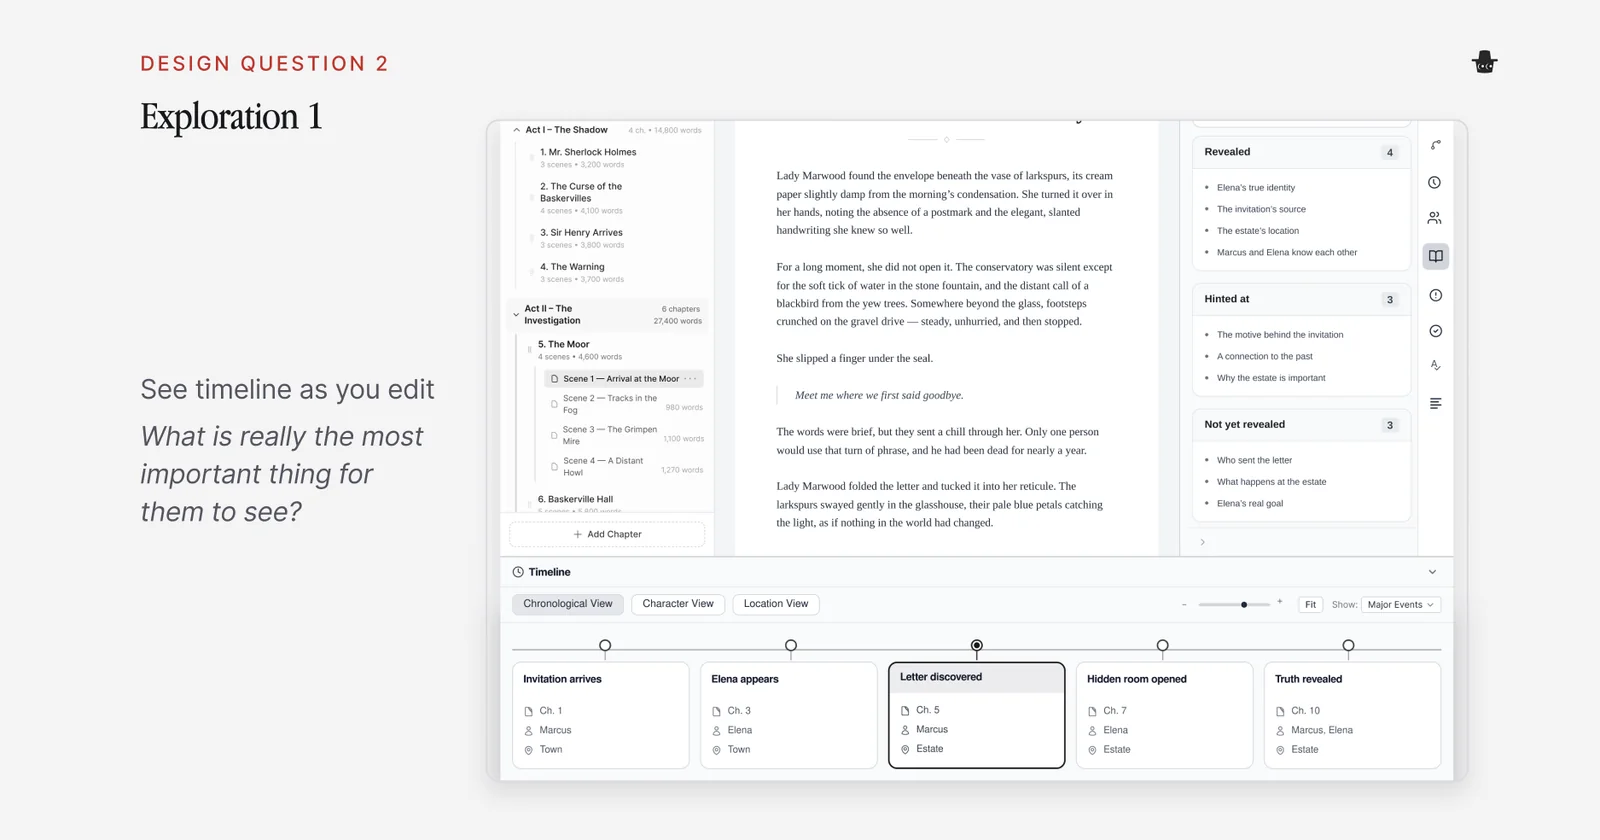
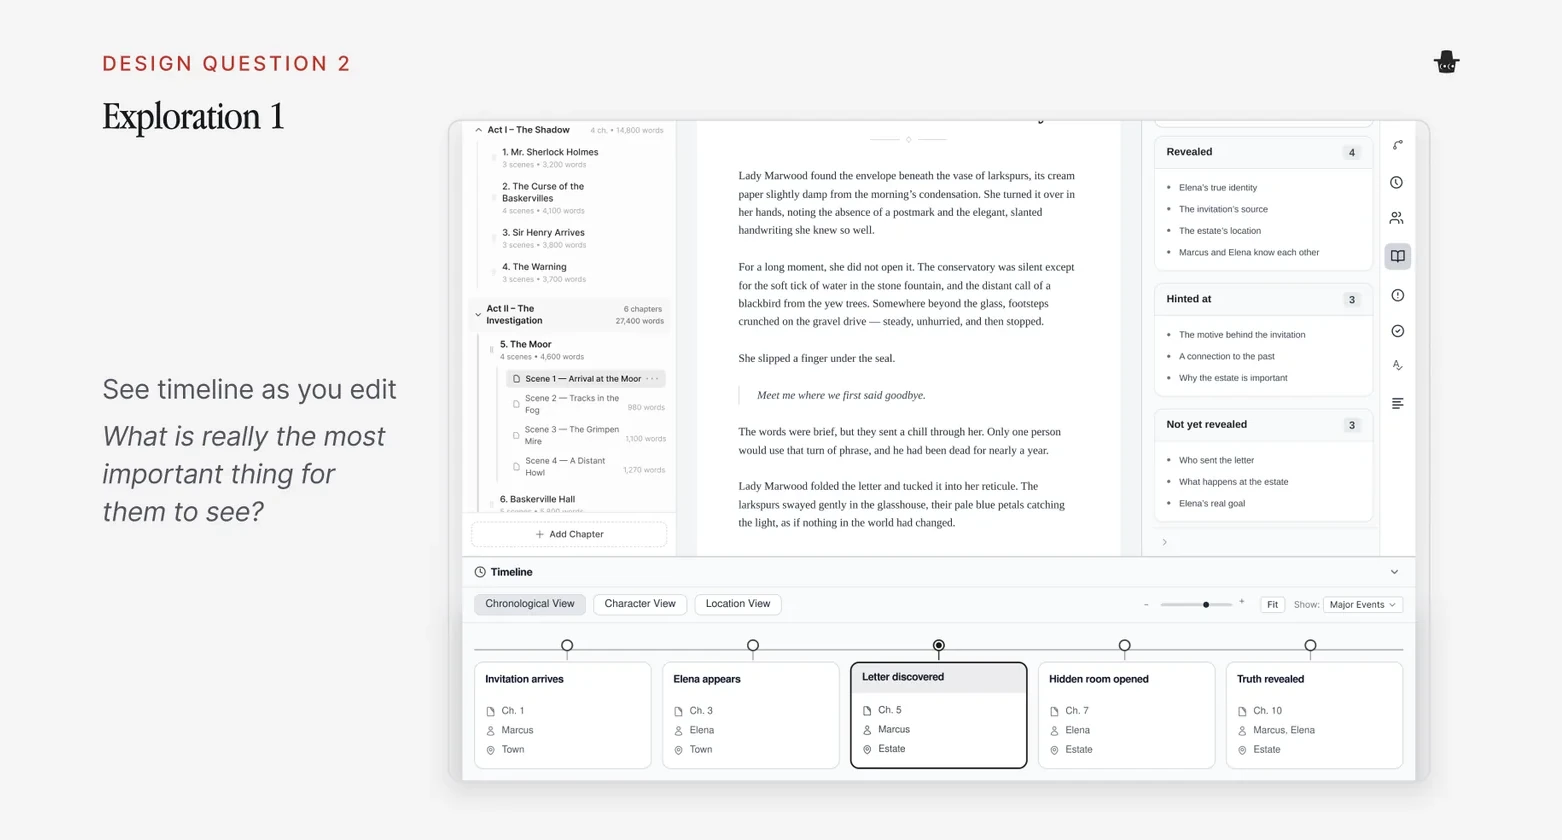
Crop Clueline slides to equal side margins and cap two graphics at 720px
Trims the left of the two-stories graphic and the four exploration slides to match the space right of the logo, crops the string states image to its content, and gives the two-stories and core-insight graphics the diagram width cap.

diff --git a/case-studies/clueline/index.html b/case-studies/clueline/index.html
@@ -168,8 +168,8 @@
       <div class="cs-prose">
         <p>A mystery is two stories at once. One is what actually happened in the fictional world, including who committed the crime, how and why. The other is how those events unfold for the reader, including what they discover, what they suspect and when they learn the truth.</p>
         <p>The challenge is keeping both consistent as a change to one can unintentionally unravel the other.</p>
-        <figure class="cs-media" style="--ratio:1600/840">
-          <img src="assets/images/two-stories.webp" width="1600" height="840" alt="Two red strings: the fictional world, who committed the crime, how and why, and the order of the storytelling, what the reader discovers, suspects and learns. The strings meet and are broken in the middle." loading="lazy">
+        <figure class="cs-media cs-media--diagram" style="--ratio:1556/737">
+          <img src="assets/images/two-stories.webp" width="1556" height="737" alt="Two red strings: the fictional world, who committed the crime, how and why, and the order of the storytelling, what the reader discovers, suspects and learns. The strings meet and are broken in the middle." loading="lazy">
           <figcaption class="cs-caption">The two stories of a mystery</figcaption>
         </figure>
         <p>Writers and readers describe the same failures from opposite sides.</p>
@@ -214,7 +214,7 @@
       <div class="sec-head"><h2 class="sec-label">The <span class="aw">Concept</span></h2></div>
       <div class="cs-prose">
         <p>Clueline is built on one idea. A system can check what the text says, but it can only guess what a reader will infer, so Clueline checks order, timing and who knows what, and leaves the question of whether the mystery works to the writer.</p>
-        <figure class="cs-media" style="--ratio:860/500">
+        <figure class="cs-media cs-media--diagram" style="--ratio:860/500">
           <img src="assets/images/core-insight.webp" width="860" height="500" alt="Two panels. One, what the text says: a magnifying glass over a page with a red string joining two highlighted lines, captioned Does my story make sense? A system can check what the text says. Two, what the reader infers: a figure thinking of three question-marked notes, captioned Does my mystery work? A system can only guess what a reader will infer." loading="lazy">
           <figcaption class="cs-caption">What a system can check, and what it can only guess</figcaption>
         </figure>
@@ -260,8 +260,8 @@
         <h3 class="cs-subhead" id="flow">01. Writing Flow</h3>
         <p><strong>How might we let writers investigate their story without interrupting their creative flow?</strong></p>
         <p>Our first exploration put warnings inside the draft as the writer typed. The insight was that while a story is still changing, warnings appear too early and interrupt, so in the next exploration the writer decides when to create and when to step back and review.</p>
-        <figure class="cs-media" style="--ratio:1600/840">
-          <img src="assets/images/dq1-exploration-1.webp" width="1600" height="840" alt="Slide for the first exploration: the manuscript with a highlighted clue and a small warning marker inside the text, and the insight that if the story is still changing, warnings might appear too early and interrupt the writer’s flow" loading="lazy">
+        <figure class="cs-media" style="--ratio:1566/840">
+          <img src="assets/images/dq1-exploration-1.webp" width="1566" height="840" alt="Slide for the first exploration: the manuscript with a highlighted clue and a small warning marker inside the text, and the insight that if the story is still changing, warnings might appear too early and interrupt the writer’s flow" loading="lazy">
           <figcaption class="cs-caption">First exploration, warnings inside the draft</figcaption>
         </figure>
         <p>Clueline stays quiet while the writer drafts. Marking a passage takes one click from the toolbar, a check runs when the writer asks, and the bar at the bottom shows how many things are left to check.</p>
@@ -273,12 +273,12 @@
         <h3 class="cs-subhead" id="connections">02. Story Connections</h3>
         <p><strong>How might we make the relationships between clues, characters and events easy to understand?</strong></p>
         <p>We tried three versions. The first put a timeline beneath the editor, and the open question was what a writer most needs to see at that moment. The second organized the timeline by character, which showed more but still left the pieces unconnected. The third was the Story map, where every clue, event, character and reveal is connected.</p>
-        <figure class="cs-media" style="--ratio:1600/840">
-          <img src="assets/images/dq2-exploration-1.webp" width="1600" height="840" alt="Slide for the first exploration: the manuscript with a chapter list, a reader panel and a timeline of events along the bottom, captioned See timeline as you edit" loading="lazy">
+        <figure class="cs-media" style="--ratio:1562/840">
+          <img src="assets/images/dq2-exploration-1.webp" width="1562" height="840" alt="Slide for the first exploration: the manuscript with a chapter list, a reader panel and a timeline of events along the bottom, captioned See timeline as you edit" loading="lazy">
           <figcaption class="cs-caption">First exploration, a timeline while editing</figcaption>
         </figure>
-        <figure class="cs-media" style="--ratio:1600/840">
-          <img src="assets/images/dq2-exploration-2.webp" width="1600" height="840" alt="Slide for the second exploration: an event map organized by character, captioned A timeline organized by character, more information, still not very connected" loading="lazy">
+        <figure class="cs-media" style="--ratio:1558/840">
+          <img src="assets/images/dq2-exploration-2.webp" width="1558" height="840" alt="Slide for the second exploration: an event map organized by character, captioned A timeline organized by character, more information, still not very connected" loading="lazy">
           <figcaption class="cs-caption">Second exploration, a timeline by character</figcaption>
         </figure>
         <p>The map puts both stories on one screen. The top row is the book, chapter by chapter, with marks as colored dots, and the bottom row is what really happened in time order, with strings running between them. A red dashed string means a clue comes after its reveal. Selecting an event shows when, where and who, explains what’s wrong in plain words and shows what a fix would change, such as moving the time to 10:00 pm so Sarah can make it.</p>
@@ -290,8 +290,8 @@
         <h3 class="cs-subhead" id="reader">03. Reader Perspective</h3>
         <p><strong>Can writers see their story through the reader’s eyes?</strong></p>
         <p>We first explored charts of which suspects readers might suspect at different points in the story, and moved away from them because a chart of suspicion is a guess.</p>
-        <figure class="cs-media" style="--ratio:1600/840">
-          <img src="assets/images/dq3-exploration-1.webp" width="1600" height="840" alt="Slide for the first exploration: a chart of who readers suspect, chapter by chapter, with a list of what readers are wondering" loading="lazy">
+        <figure class="cs-media" style="--ratio:1554/840">
+          <img src="assets/images/dq3-exploration-1.webp" width="1554" height="840" alt="Slide for the first exploration: a chart of who readers suspect, chapter by chapter, with a list of what readers are wondering" loading="lazy">
           <figcaption class="cs-caption">First exploration, who readers suspect</figcaption>
         </figure>
         <p>The second exploration goes chapter by chapter and lists what the reader has been told so far, flags what’s new in that chapter and shows how many secrets are still hidden. Writers see what the page shows and decide what the reader will make of it.</p>
@@ -315,8 +315,8 @@
           <figcaption class="cs-caption">Foundations</figcaption>
         </figure>
         <p>Kelly carried the detective theme into the visual identity through the string connecting evidence on an investigation board. Four string states communicate whether a connection holds, needs attention, has broken or has been repaired.</p>
-        <figure class="cs-media cs-media--diagram" style="--ratio:1440/628">
-          <img src="assets/images/strings.webp" width="1440" height="628" alt="Four strings between two pins: taut, sagging, snapped and tied" loading="lazy">
+        <figure class="cs-media cs-media--diagram" style="--ratio:1440/417">
+          <img src="assets/images/strings.webp" width="1440" height="417" alt="Four strings between two pins: taut, sagging, snapped and tied" loading="lazy">
           <figcaption class="cs-caption">String states</figcaption>
         </figure>
         <p>The detective mascot has its own set of expressions, with eyes that move from curious to suspicious to alarmed, and it appears in the top bar and in empty states.</p>
